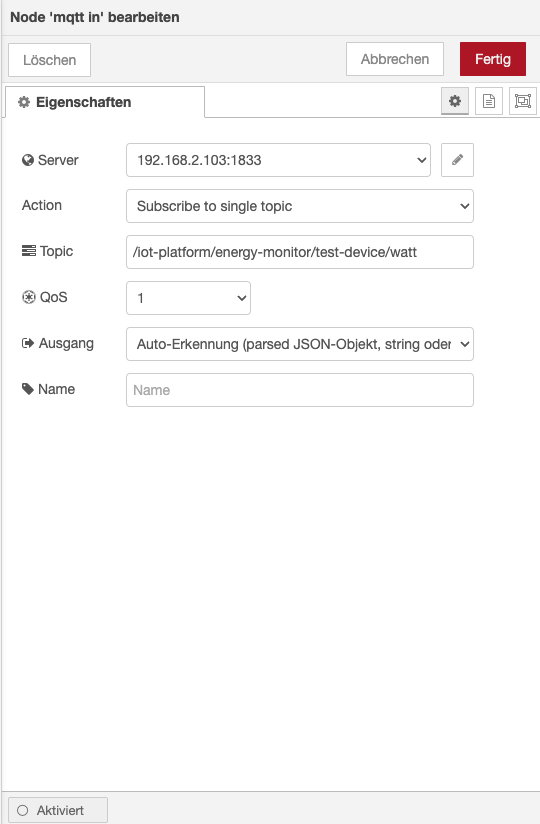
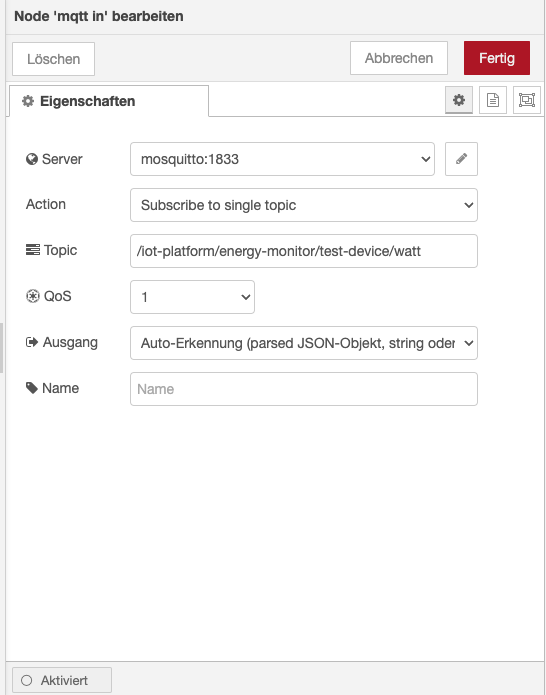
docker-compose finds other container by service name

diff --git a/software/flow/README.md b/software/flow/README.md
@@ -12,7 +12,7 @@ The dashboard should be visible on the righmost menu item in Node-RED.
 
 ![Dashboard item](./docs/images/dashboard.png)
 
-In Node-RED you can add a MQQT node to receive values from the power monitor.
+In Node-RED you can add a MQQT node to receive values from the power monitor. As we run in `docker-compose`you don't have to use the IP address of our Eclipse Mosquitto sever, but you can simplay use `mosquitto` as the host nome.
 
 ![MQTT Node](./docs/images/2-mqtt-node.png)
 
